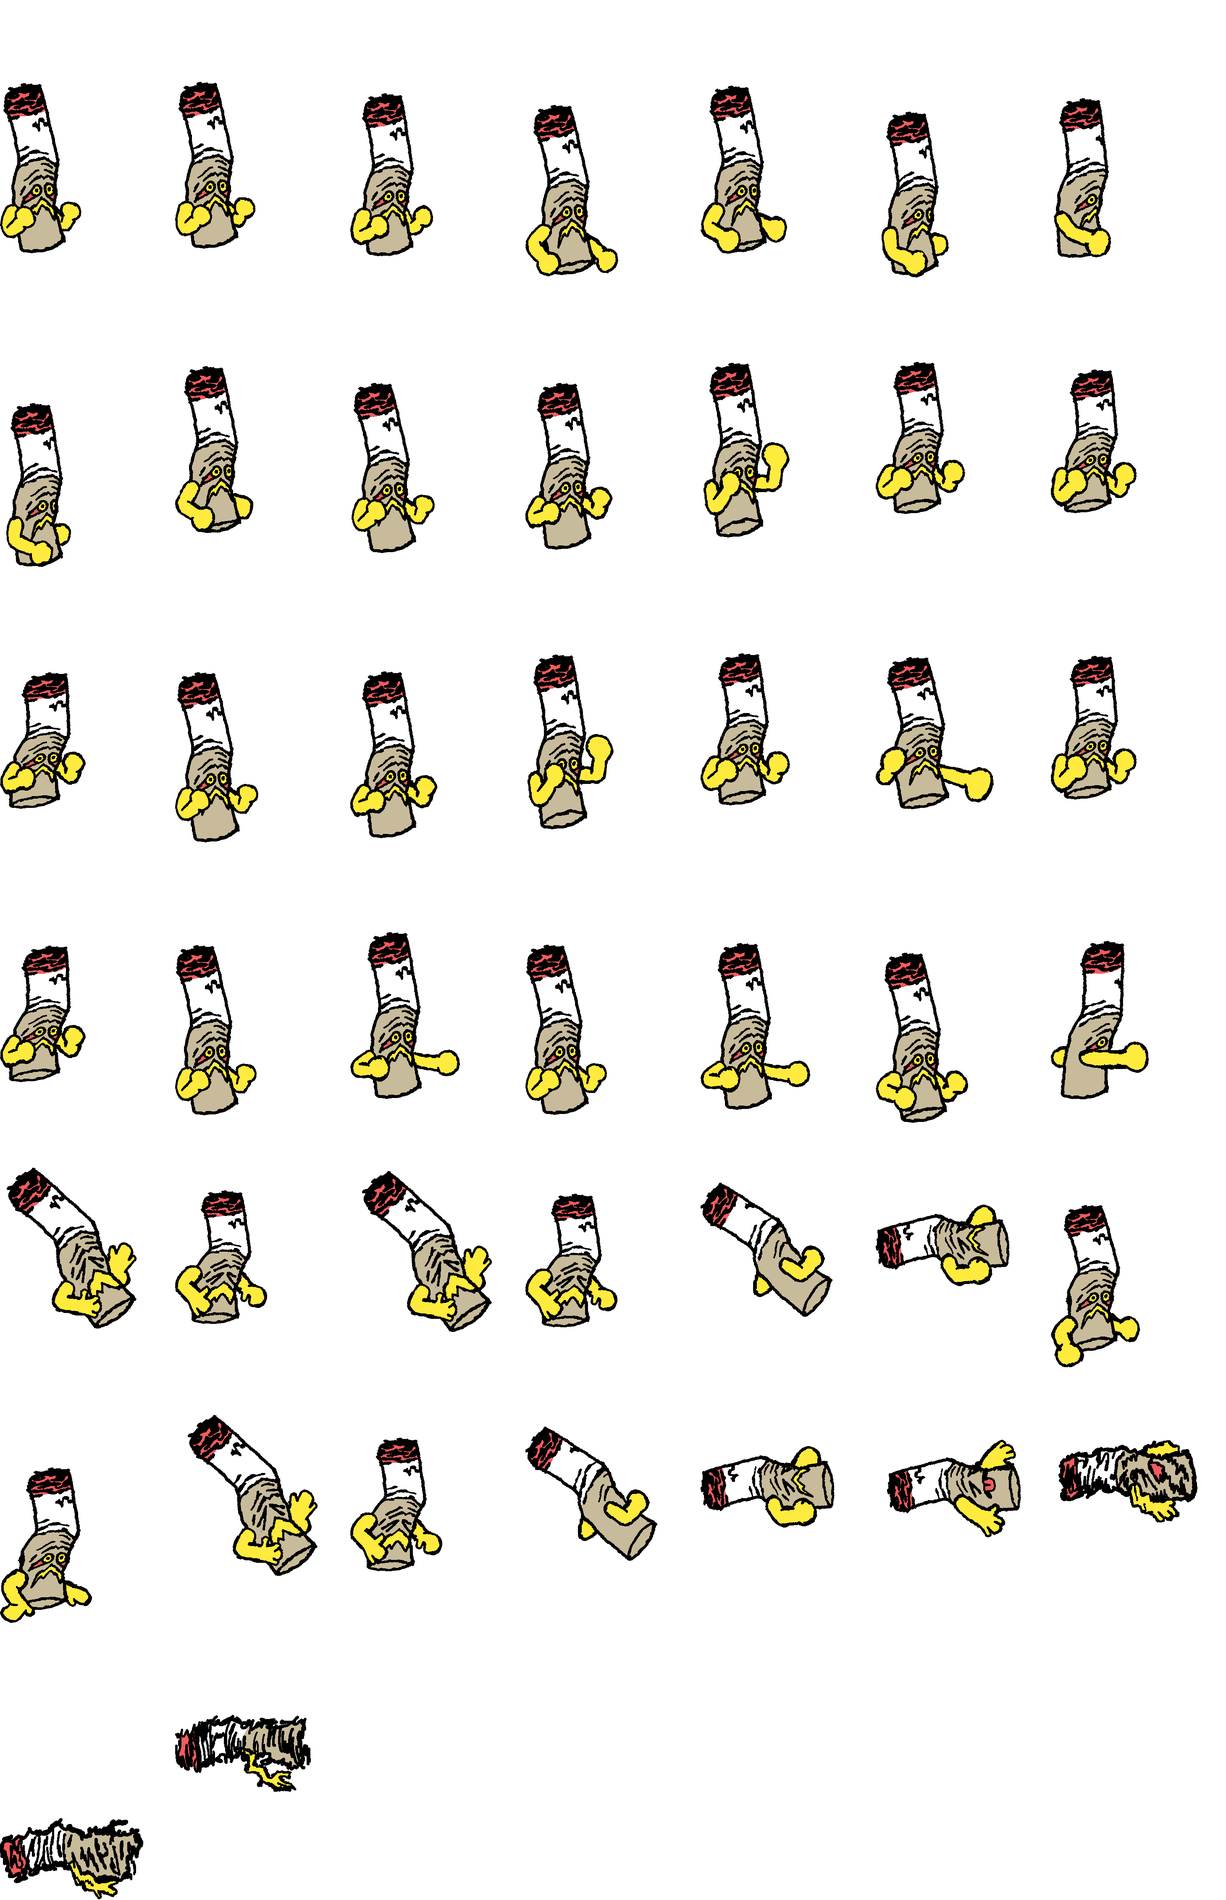
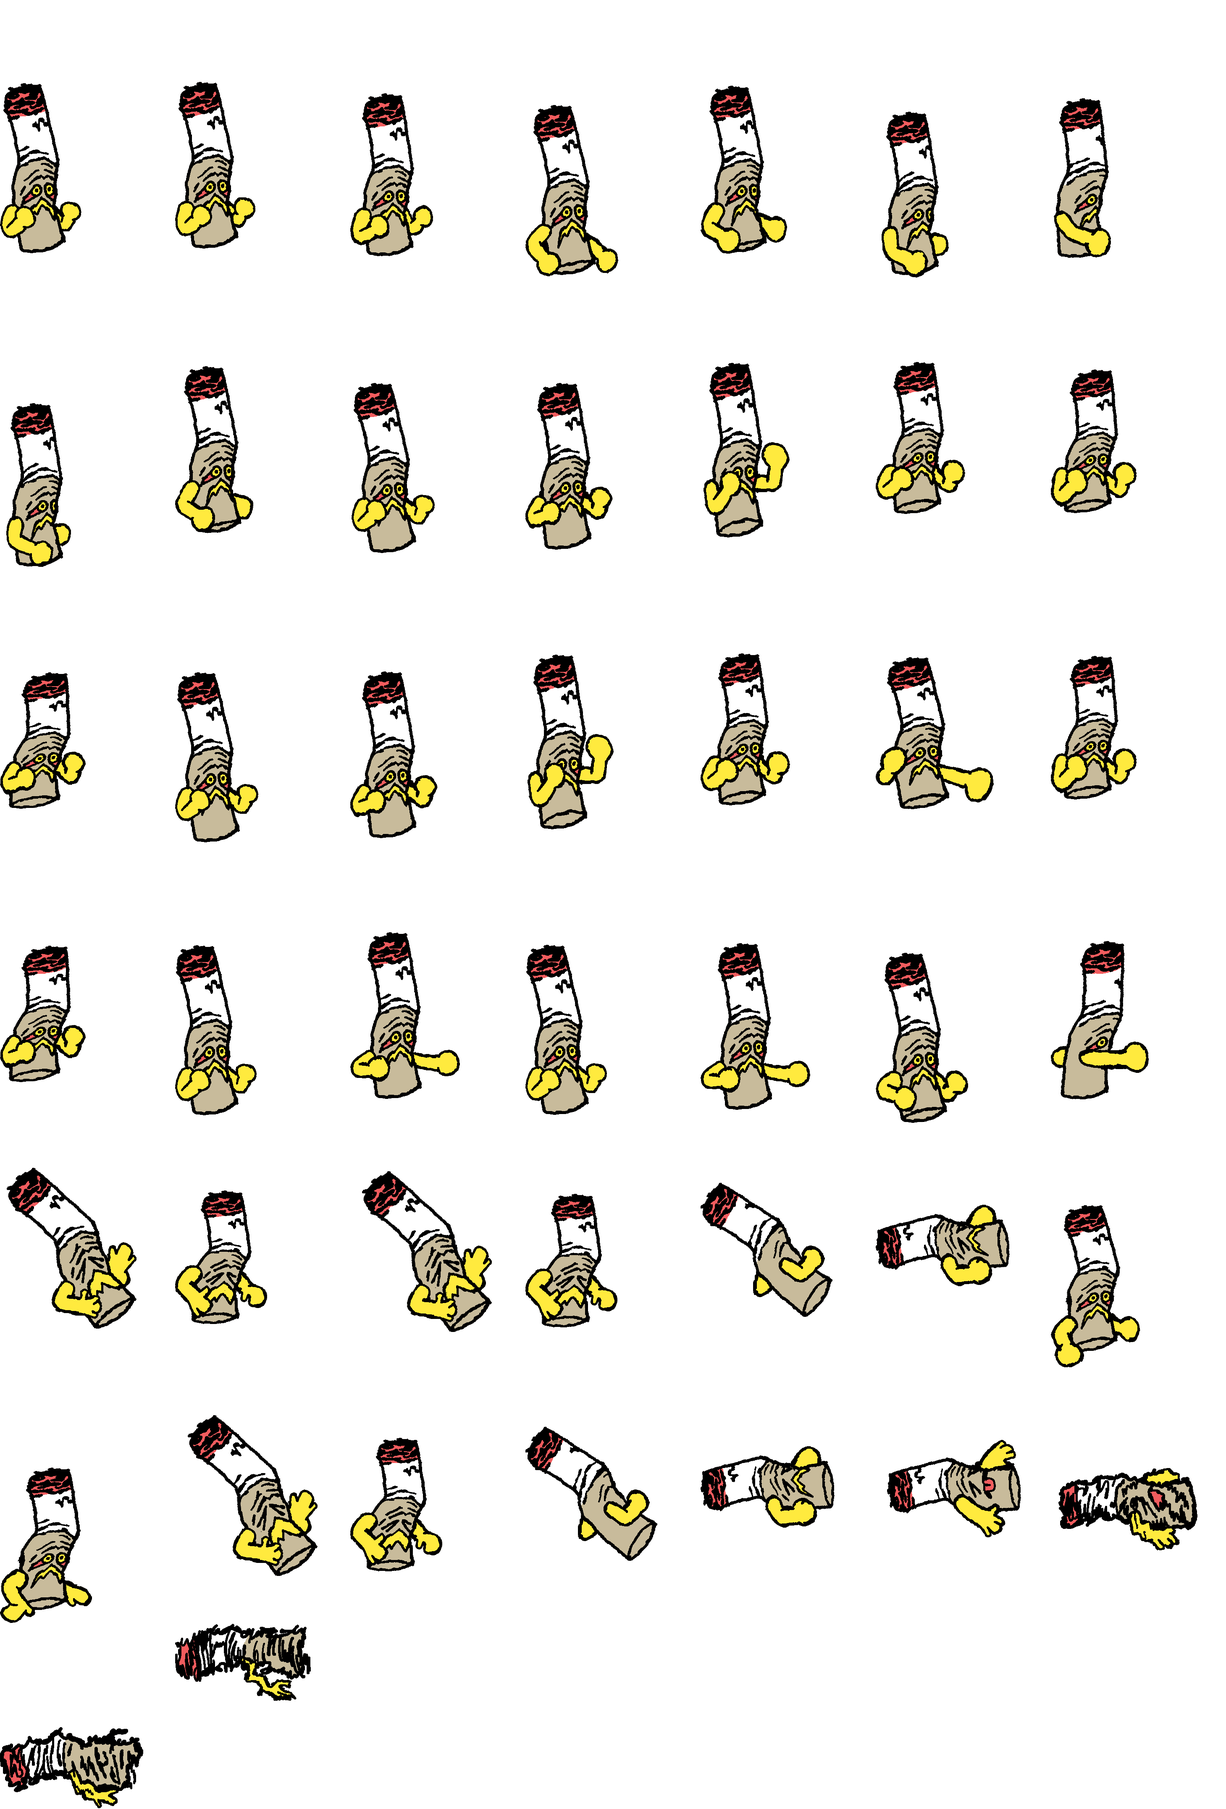
fix: cigarrete smoke sprites

diff --git a/tools/build-beat-enemy-defs.py b/tools/build-beat-enemy-defs.py
@@ -97,6 +97,18 @@ BAND_GAP = 2       # empty rows tolerated inside one row band
 GAP = 0            # empty columns tolerated inside one frame
 SAME = 2.5         # mean abs channel difference below which two frames are one
 SIZE_TOL = 2       # px of width/height difference tolerated when matching
+# SMOKE RISES, so a loose piece found entirely BELOW a body has to be much
+# closer than one found above it before that body may adopt it. This multiplies
+# the vertical gap in that case only. It is not a style preference: on the stub
+# and the third cigarette the death row's tallest plume climbs 190px into the
+# gap under the knockdown row, and the plain gap made the get-up frame above it
+# (190px away) a nearer owner than the dying body it rises off (211px away).
+# The wisp was welded onto the wrong frame, and every knocked-down cigarette
+# got back up trailing a speck of someone else's smoke a body-height below his
+# feet -- off the bottom of the screen. A penalty rather than a ban because
+# smoke IS sometimes drawn below a fighter (dust off a landing, dirt off a
+# hoof); those sit within a few px of the feet and still win easily at 3x.
+BELOW_PENALTY = 3
 
 # How many pixels of body a row needs before it counts as the bottom. Guards
 # against an antialiased tail hanging one pixel below the feet and planting the
@@ -529,6 +541,10 @@ def main():
                 bs = bodies[b]
                 dy = max(0, bs[0] - s[1], s[0] - bs[1])
                 dx = max(0, s[2] - bs[3], bs[2] - s[3])
+                # ...EXCEPT THAT DOWN IS NOT THE SAME AS UP. See BELOW_PENALTY:
+                # a body that ends entirely above this piece is upwind of it.
+                if bs[1] < s[0]:
+                    dy *= BELOW_PENALTY
                 d = (dy + dx, dy)
                 if bestd is None or d < bestd:
                     bestd, best = d, b
